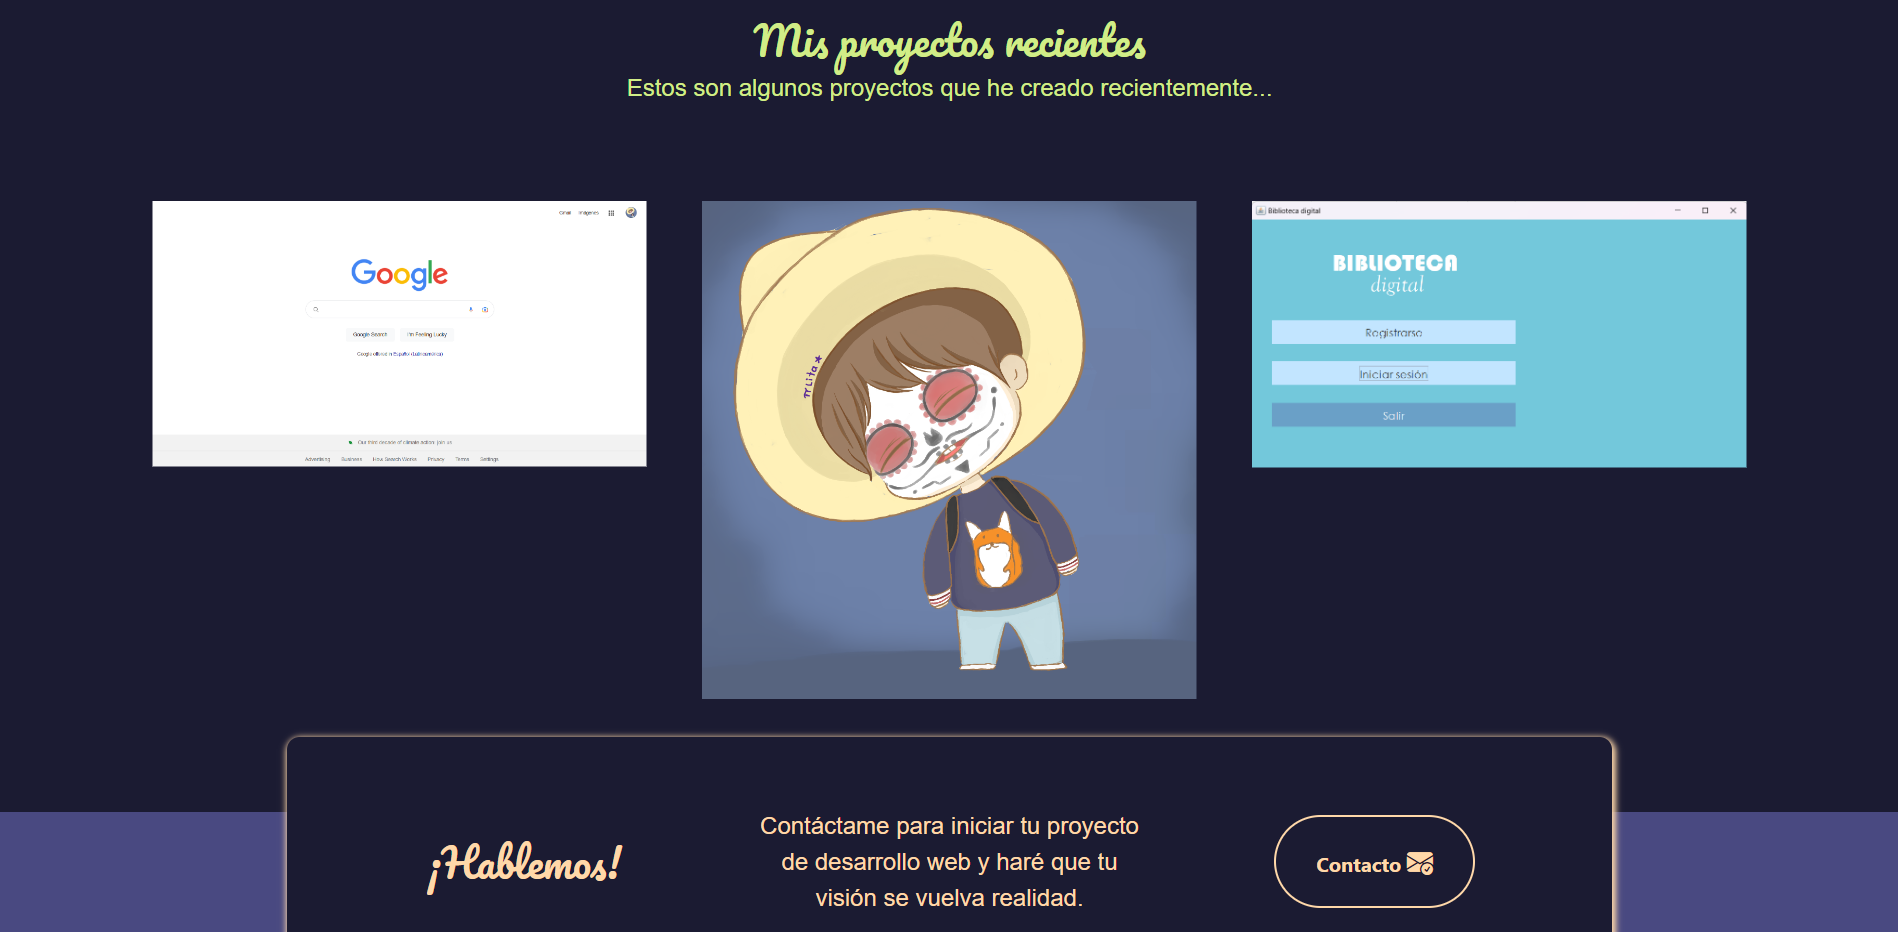
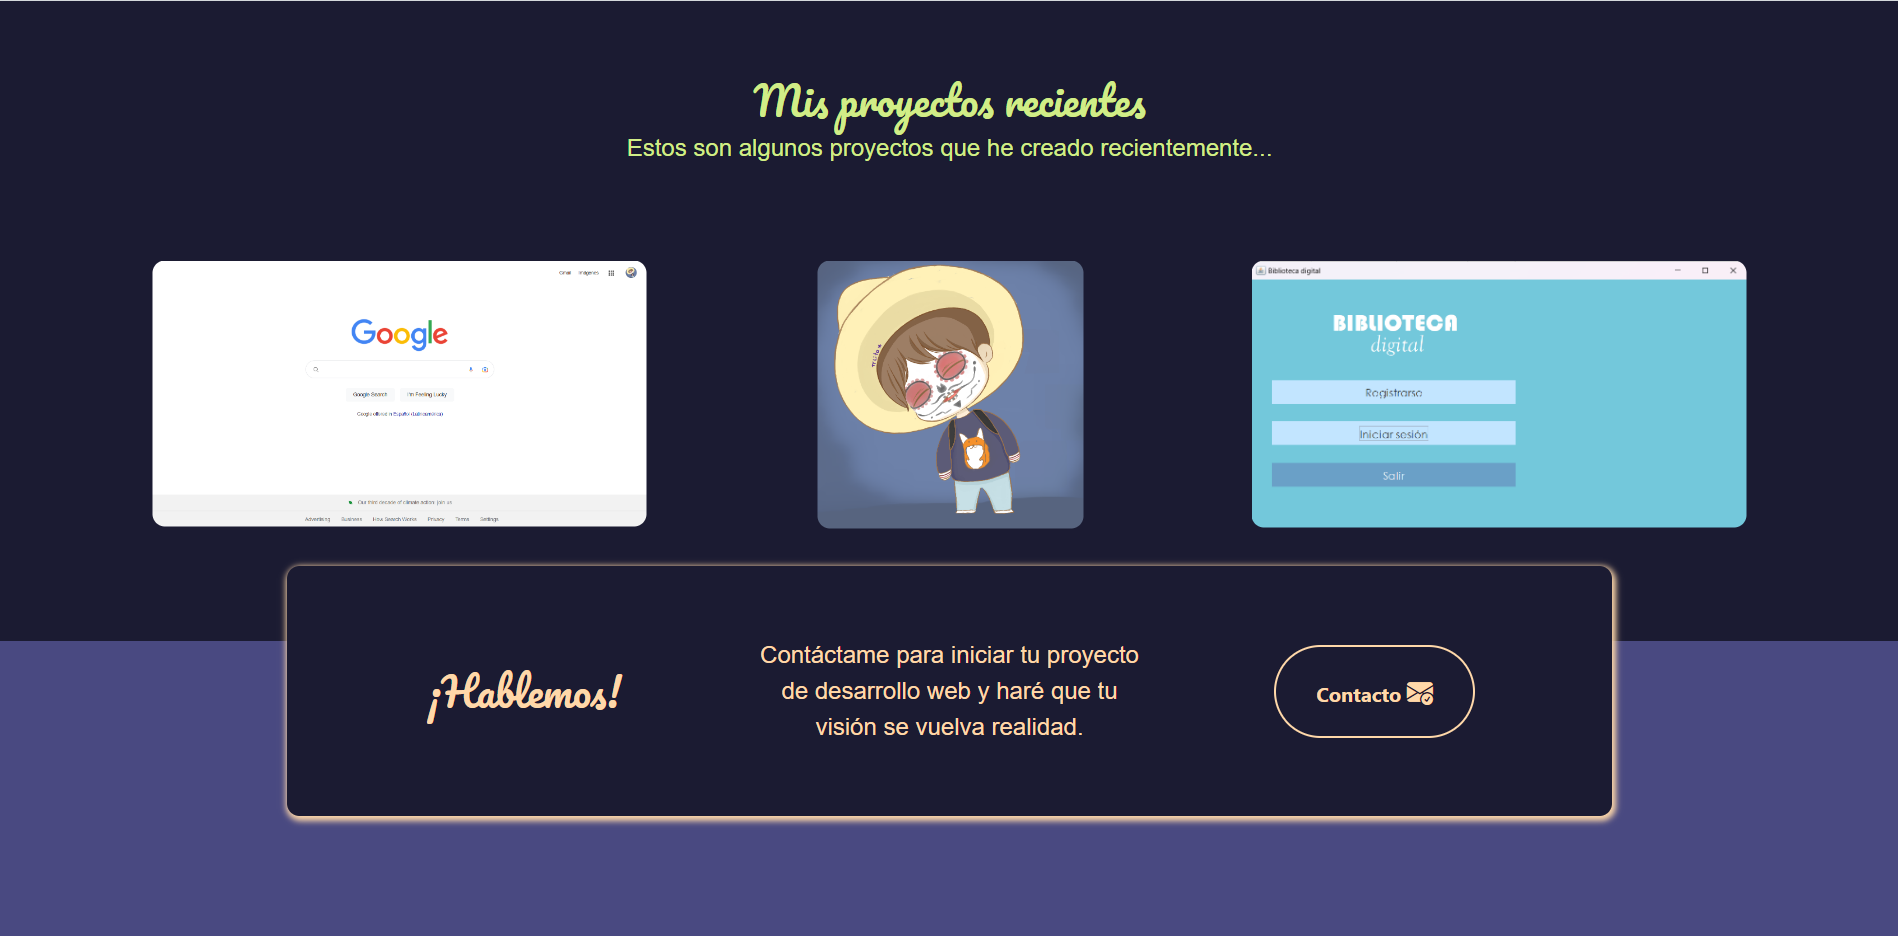
Add files via upload

diff --git a/index.html b/index.html
@@ -142,7 +142,7 @@
           <!-- Proyecto 2 -->
           <div class="col-12 col-md-6 col-lg-4">
             <div class="proyecto">
-              <img src="imagenes/proyecto2.png" alt="Proyecto 2 Dibujo">
+              <img class = "pro2" src="imagenes/proyecto2.png" alt="Proyecto 2 Dibujo">
               <div class="overlay">
                 <p>Proyecto 2 Dibujo</p>
                 <div class="iconos-contenedor">

diff --git a/style.css b/style.css
@@ -207,9 +207,15 @@ h1 {
   height: 100%;
   width: 100%;
   padding: 10px;
-  border-radius: 10px;
+  border-radius: 20px;
   display: block;
   transition: all 0.2s ease;
+}
+
+.proyecto .pro2{
+  height: 56%;
+  width: 56%;
+  margin-left: 22.2%;
 }
 
 .proyectos-contenedor {
